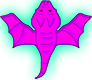
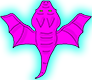
Blood dragon upgrade images

diff --git a/teedee/src/com/me/teedee/screens/TowerView.java b/teedee/src/com/me/teedee/screens/TowerView.java
@@ -140,16 +140,16 @@ public class TowerView extends Sprite {
 		String picPath = "";
 		switch(tower.getCurrentLevel()) {
 		case 1:
-			picPath = "img/bloodDragon.png";
+			picPath = "img/bloodDragon1.png";
 			break;
 		case 2:
-			picPath = "img/bloodDragon.png";
+			picPath = "img/bloodDragon1.png";
 			break;
 		case 3:
-			picPath = "img/bloodDragon.png";
+			picPath = "img/bloodDragon2.png";
 			break;
 		case 4:
-			picPath = "img/bloodDragon.png";
+			picPath = "img/bloodDragon2.png";
 			break;
 		default:
 			picPath = "img/bloodDragon.png";

diff --git a/teedee/src/com/me/teedee/screens/SplashScreen.java b/teedee/src/com/me/teedee/screens/SplashScreen.java
@@ -51,7 +51,7 @@ public class SplashScreen implements Screen {
 
 	private void fadeAnimation() {
 		if(fadeIn ) {
-			alpha += 0.01;
+			alpha += 0.001;
 			if(alpha > 1) {
 				alpha = 1;
 				fadeIn = false;

diff --git a/teedee/src/com/me/teedee/Player.java b/teedee/src/com/me/teedee/Player.java
@@ -12,7 +12,7 @@ public class Player {
 
 	public Player() {
 		name = "Player";
-		money = new Money(800);
+		money = new Money(80000);
 		life = new Lives(100);
 	}
 
